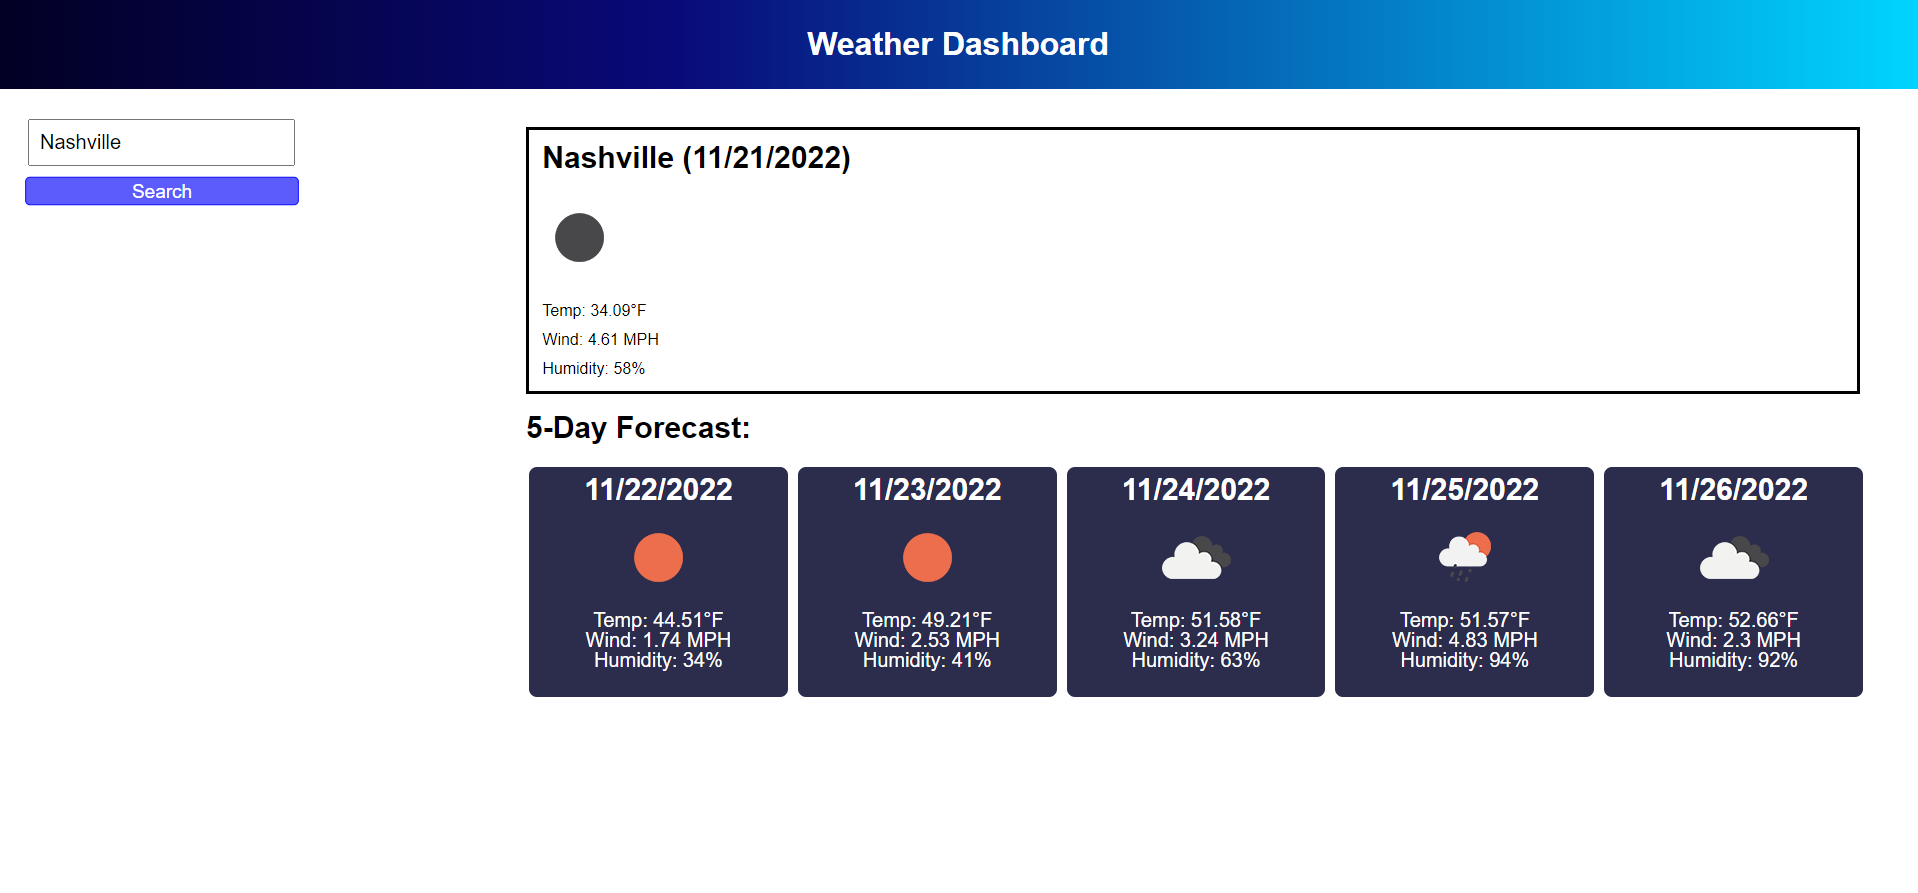
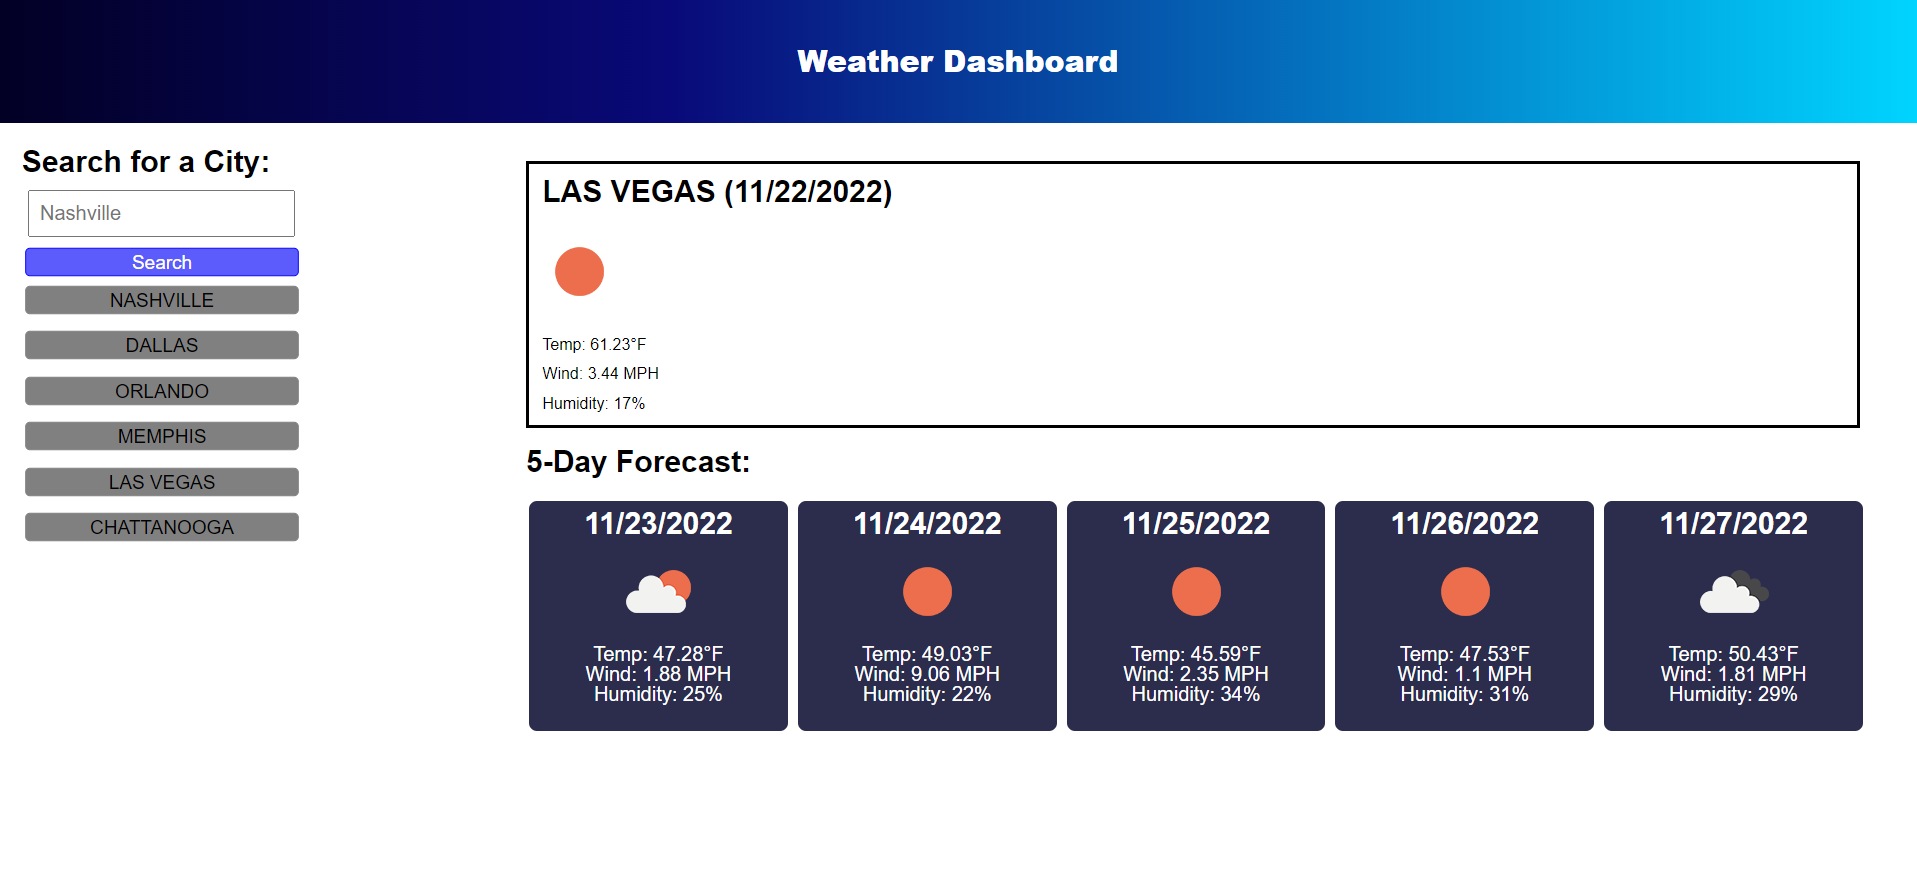
Added city buttons

Changed region(s): [[0.0, 0.0303, 1.0, 0.8191]]

diff --git a/assets/js/script.js b/assets/js/script.js
@@ -9,8 +9,7 @@ let currentDay = dayjs().format("MM/DD/YYYY");
 let searchKey = "searchKey"
 
 
-function weather() {
-    let city = $("#userInput").val();
+function weather(city) {
     let weatherURL = `https://api.openweathermap.org/data/2.5/forecast?q=${city}&appid=${APIkey}&units=imperial`
     let weatherURLToday = `https://api.openweathermap.org/data/2.5/weather?q=${city}&appid=${APIkey}&units=imperial`
     fetch(weatherURL)
@@ -25,11 +24,11 @@ function weather() {
             return response.json();
         })
         .then(function (data) {
-            today(data)
+            today(data,city)
             setLocalStorage(city)
         })  
 }
-
+/*5 day forecast section*/
 function displayForecast(forecastData) {
     let filterForecast = forecastData.list.filter((day) => {
         if (day.dt_txt.includes("15:00:00")) {
@@ -60,10 +59,9 @@ function displayForecast(forecastData) {
         fiveDay.append(weatherCard)
     });
 }
-
-function today(todayInfo){
+/*Today section*/
+function today(todayInfo,city){
     displayCityWeather.innerHTML="";
-    let city = $("#userInput").val();
     let todayContainer = document.createElement("div")
     let cityPlusDate = document.createElement("h2")
     let symbol = document.createElement("img")
@@ -71,7 +69,6 @@ function today(todayInfo){
     let todayWind = document.createElement("p")
     let todayHumidity = document.createElement("p")
     let fiveDayForecast = document.querySelector("h2")
-    let recentSearch = document.createElement("button")
     cityPlusDate.textContent = `${city} (${currentDay})`
     todayTemp.textContent =  `Temp: ${todayInfo.main.temp}°F`
     todayWind.textContent = `Wind: ${todayInfo.wind.speed} MPH`
@@ -80,28 +77,49 @@ function today(todayInfo){
     fiveDayForecast.className="fiveDayForecast"
     fiveDayForecast.textContent = `5-Day Forecast:`
     todayContainer.className= "displayCityWeather"
-    recentSearch.textContent=`${city}`
     todayContainer.append(cityPlusDate,symbol,todayTemp,todayWind,todayHumidity)
     displayCityWeather.append(todayContainer,fiveDayForecast) 
+
 }
+/*creating city buttons*/
+function citySearchBtn(){
+    citySearches.innerHTML=""
+    if (localStorage.getItem(searchKey) !== null){
+        let cities = localStorage.getItem(searchKey)
+        let citiesSearches = JSON.parse(cities)
+         citiesSearches.forEach(element => {
+    let recentSearches = document.createElement("button")
+    recentSearches.className ="recentSearches"
+    recentSearches.innerHTML=element
+    citySearches.append(recentSearches)})
+}};
 
-
-
+/*Checking if city is in array. If it is not, it's adding it*/
 function setLocalStorage(city) {
     if (localStorage.getItem(searchKey) !== null){
     let cities = localStorage.getItem(searchKey)
     let citiesSearches = JSON.parse(cities)
-    citiesSearches.push(city);
+    if (citiesSearches.includes(city)){
+    } else {citiesSearches.push(city);
+    }
     localStorage.setItem(searchKey, JSON.stringify(citiesSearches));
+    citySearchBtn();
     } else {
     let searches = []
     searches.push(city);
     localStorage.setItem(searchKey, JSON.stringify(searches));
+    citySearchBtn();
 }}
 
 
-
-
+/*Function for buttons for searched cities*/
+citySearchBtn();
 // Add event listener to search button
-searchBtn.addEventListener("click", weather);
-
+searchBtn.addEventListener("click", function(){
+    let city = $("#userInput").val().toUpperCase()
+    weather(city);
+});
+$(".citySearches").on("click", ".recentSearches", function(){
+    let city = $(this).text()
+    weather(city);
+})

diff --git a/index.html b/index.html
@@ -1,30 +1,31 @@
 <!DOCTYPE html>
 <html lang="en">
-<head>
-    <meta charset="UTF-8">
-    <meta http-equiv="X-UA-Compatible" content="IE=edge">
-    <meta name="viewport" content="width=device-width, initial-scale=1.0">
-    <link rel="stylesheet" href="./assets/css/style.css">
-    <title>Weather Forecast</title>
-</head>
-<body>
-    <div>
-        <div class="weather">
-            <header>
-             <h1>Weather Dashboard</h1>
-            </header>
-        </div>
-         <!--Aside section for searching city-->
-        <aside class="aside">
-            <div class="searchCity">
-                <h2>Search for a City:</h2>
-                <input type=text id="userInput" placeholder="Nashville"/>
-                <button id="searchBtn" class="btn">Search</button>
-                <div id="citySearchHistory">
-                <div id="citySearches">
+
+    <head>
+        <meta charset="UTF-8">
+        <meta http-equiv="X-UA-Compatible" content="IE=edge">
+        <meta name="viewport" content="width=device-width, initial-scale=1.0">
+        <link rel="stylesheet" href="./assets/css/style.css">
+        <title>Weather Forecast</title>
+    </head>
+
+    <body>
+        <div>
+            <div class="weather">
+                <header>
+                    <h1>Weather Dashboard</h1>
+                </header>
             </div>
-            <!--Need to add in recent rearches-->
-        </aside>
+            <!--Aside section for searching city-->
+            <aside class="aside">
+                <h1>Search for a City:</h1>
+                <div class="searchCity">
+                    <input type=text id="userInput" placeholder="Nashville" />
+                    <button id="searchBtn" class="btn">Search</button>
+                </div>
+                <!--Recent Searches-->
+                <div class="citySearches"></div>
+            </aside>
             <!--Section for current searched city-->
             <div id="displayCityWeather">
             </div>
@@ -32,11 +33,12 @@
             <h2 class="fiveDayForecast"></h2>
             <div class="fiveDay">
             </div>
-    </div>
-    <!--JavaScript is linked at the bottom of the page to make the page run faster-->
-    </div>
-    <script src="https://code.jquery.com/jquery-3.5.1.min.js"></script>
-    <script src="https://cdn.jsdelivr.net/npm/dayjs@1/dayjs.min.js"></script>
-    <script src="./assets/js/script.js"></script>
-</body>
+        </div>
+        <!--JavaScript is linked at the bottom of the page to make the page run faster-->
+        </div>
+        <script src="https://code.jquery.com/jquery-3.5.1.min.js"></script>
+        <script src="https://cdn.jsdelivr.net/npm/dayjs@1/dayjs.min.js"></script>
+        <script src="./assets/js/script.js"></script>
+    </body>
+
 </html>

diff --git a/assets/css/style.css b/assets/css/style.css
@@ -73,6 +73,12 @@ font-size: 20px;
 margin:10px;
 padding:10px;
 }
+h1{
+    font-weight: bolder;
+    font-family: "Roboto", sans-serif;
+    font-size: 30px;
+    margin: 1%;  
+}
 
 h2{
     font-weight: bolder;
@@ -94,4 +100,22 @@ margin:1%;
 
 .fiveDayForecast {
     margin-left:27.5%;
+}
+
+.recentSearches {
+    background-color:gray;
+    color: black;
+    height: 30px;
+    padding: 0 8px;
+    font-size: 20px;
+    font-weight: 400;
+    cursor: pointer;
+    border-radius: 5px;
+    border: 1px solid gray;
+    line-height: 8px;
+    transform: scale(0.95);
+    margin-top: 2%;
+    margin-bottom: 2%;
+    width:75%;
+
 }
